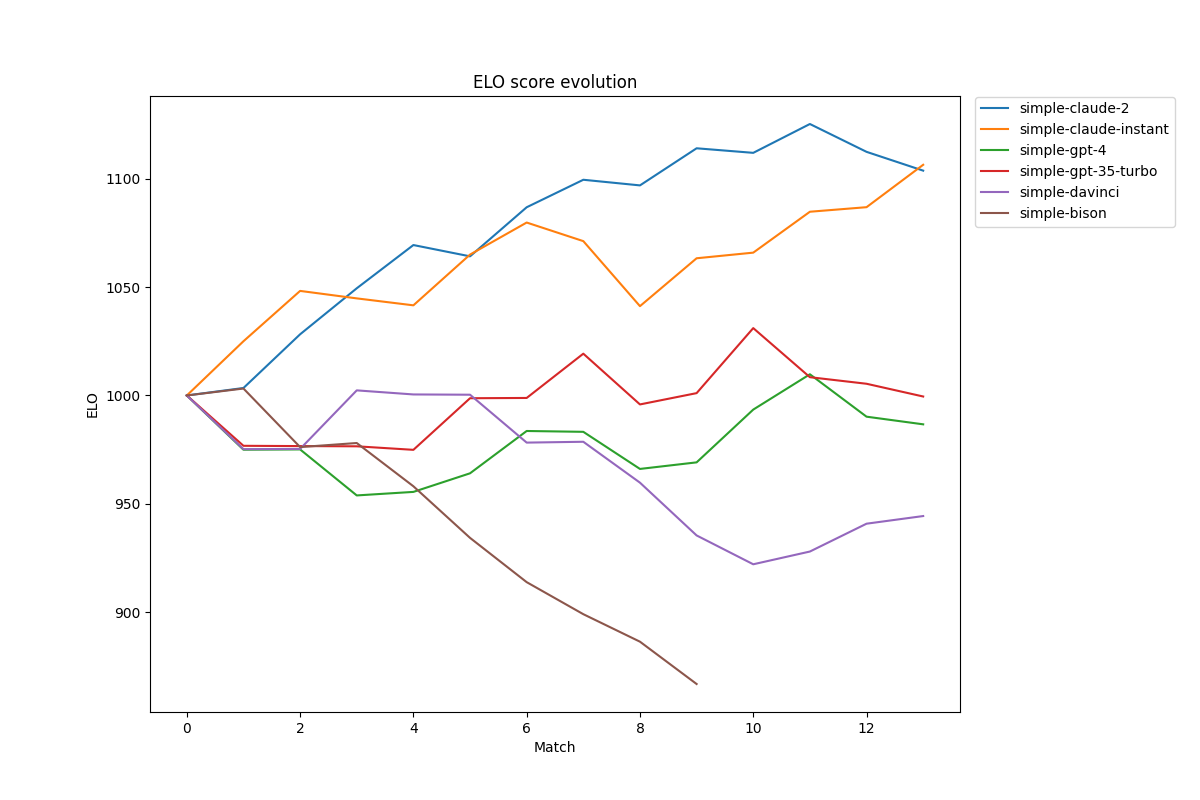
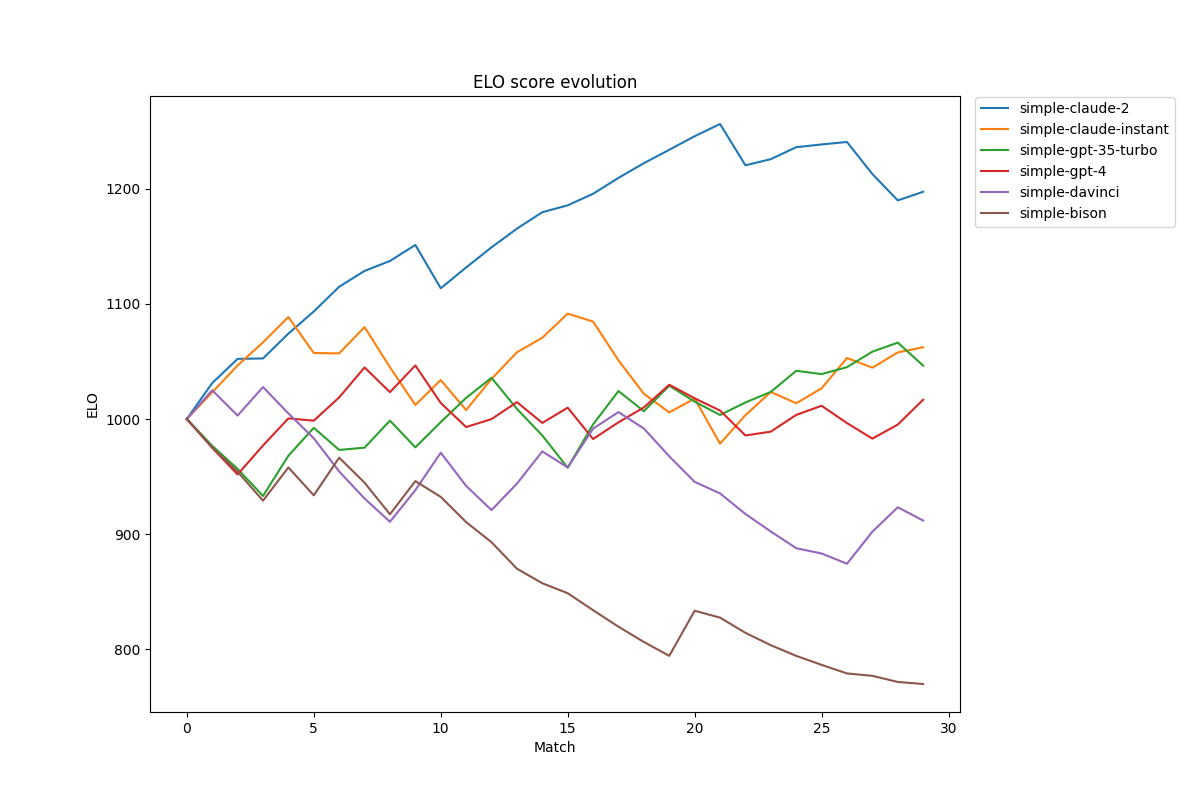
Change to full/symmetric matches; add player sets within tournaments

diff --git a/src/match.py b/src/match.py
@@ -11,7 +11,6 @@ from leaderboard import update_leaderboard
 def _get_match_id(challenge_name, player_A_name, player_B_name):
     """Generate a unique ID for a match"""
 
-    player_A_name, player_B_name = sorted([player_A_name, player_B_name])
     return challenge_name + ":" + player_A_name + "<>" + player_B_name
 
 
@@ -34,7 +33,7 @@ def _find_match(tournament_state):
     for challenge_name in _randomize(tournament_state["challenges"].keys()):
         for player_A_name in _randomize(tournament_state["players"].keys()):
             for player_B_name in _randomize(tournament_state["players"].keys()):
-                if player_A_name < player_B_name:
+                if player_A_name != player_B_name:
                     if (
                         _get_match_id(challenge_name, player_A_name, player_B_name)
                         not in tournament_state["matches"]
@@ -45,7 +44,7 @@ def _find_match(tournament_state):
 
 
 ##############################################
-def _do_evaluate(
+def _evaluate(
     tournament_state, challenge, player_A_name, output_A, player_B_name, output_B
 ):
     """Perform the evaluation of a match"""
@@ -82,46 +81,33 @@ def _do_evaluate(
 
 
 ##############################################
-def _evaluate(
-    tournament_state, challenge, player_A_name, output_A, player_B_name, output_B
-):
-    """Evaluate a match, running symmetrical evaluations for fairness"""
+def _perform(tournament_state, challenge_name, player):
+    """Perform a performance for a player"""
 
-    print("    evaluating match results")
-
-    if len(output_A) == 0 or len(output_B) == 0:
-        return "Either player failed to produce output", "DNP"
-
-    # avoid lexical bias, so we run two evaluations with the players swapped
-    args = [
-        (tournament_state, challenge, player_A_name, output_A, player_B_name, output_B),
-        (tournament_state, challenge, player_B_name, output_B, player_A_name, output_A),
-    ]
-    evaluations = [(None, None), (None, None)]
-    with concurrent.futures.ThreadPoolExecutor(max_workers=2) as executor:
-        future_to_ix = {
-            executor.submit(_do_evaluate, *arg): ix for ix, arg in enumerate(args)
+    performance_file = f"competitions/{tournament_state['meta']['competition']}/performances/{_get_performance_id(challenge_name, player['name'])}.json"
+    if not os.path.exists(performance_file):
+        # create the performance
+        print(f"      rendering performance of {player['name']} for {challenge_name}")
+        challenge = tournament_state["challenges"][challenge_name]
+        performance = {
+            "player": player["name"],
+            "challenge": challenge_name,
+            "output": complete(
+                player["model"],
+                player["temperature"],
+                player["prompt"].format(**challenge),
+            ),
         }
-        for future in concurrent.futures.as_completed(future_to_ix):
-            evaluations[future_to_ix[future]] = future.result()
 
-    assessment_1, winner_1 = evaluations[0]
-    assessment_2, winner_2 = evaluations[1]
-
-    # one draw is enough to call it a draw
-    if winner_1 == "DRAW":
-        return winner_1, assessment_1
-    elif winner_2 == "DRAW":
-        return winner_2, assessment_2
-    # check for inconclusive non-draw assessments
-    elif winner_1 != winner_2:
-        return (
-            "DRAW",
-            f"Inconclusive assessments: {assessment_1} <--VS--> {assessment_2.replace('Player A', 'Player X').replace('Player B', 'Player A').replace('Player X', 'Player B')}",
-        )
+        # store the performance
+        with open(performance_file, "w") as file:
+            json.dump(performance, file, indent=2)
     else:
-        # unanimous winner
-        return assessment_1, winner_1
+        # load the performance
+        with open(performance_file, "r") as file:
+            performance = json.load(file)
+
+    return performance
 
 
 ##############################################
@@ -145,29 +131,9 @@ def run_match(tournament_state):
         # perform performances if needed
         performances = {}
         for player in (player_A, player_B):
-            performance_file = f"competitions/{tournament_state['meta']['competition']}/performances/{_get_performance_id(challenge_name, player['name'])}.json"
-            if not os.path.exists(performance_file):
-                # create the performance
-                print(
-                    f"      rendering performance of {player['name']} for {challenge_name}"
-                )
-                performances[player["name"]] = {
-                    "player": player["name"],
-                    "challenge": challenge,
-                    "output": complete(
-                        player["model"],
-                        player["temperature"],
-                        player["prompt"].format(**challenge),
-                    ),
-                }
-
-                # store the performance
-                with open(performance_file, "w") as file:
-                    json.dump(performances[player["name"]], file, indent=2)
-            else:
-                # load the performance
-                with open(performance_file, "r") as file:
-                    performances[player["name"]] = json.load(file)
+            performances[player["name"]] = _perform(
+                tournament_state, challenge_name, player
+            )
 
         # perform the evaluation
         player_A_output = performances[player_A_name]["output"]

diff --git a/src/tournament.py b/src/tournament.py
@@ -6,10 +6,12 @@ from leaderboard import generate_leaderboard
 
 
 ##############################################
-def load_tournament(competition, tournament):
+def load_tournament(competition, tournament, player_set=""):
     """Load the competition into a structure representing its state"""
 
-    print(f"Loading tournament {tournament.upper()} of competition {competition.upper()}")
+    print(
+        f"Loading tournament {tournament.upper()} of competition {competition.upper()}"
+    )
 
     tournament_state = dict(
         meta={"competition": competition, "tournament": tournament},
@@ -25,7 +27,37 @@ def load_tournament(competition, tournament):
         exit(-1)
 
     # load the players
+
+    # obtain the valid player globs
+    player_globs = ["*"]
+    if player_set != "":
+        if not os.path.exists(
+            f"competitions/{competition}/tournaments/{tournament}/{player_set}.players"
+        ):
+            print(f"Player set {player_set} does not exist")
+            exit(-1)
+
+        print(f"    loading player set {player_set}")
+        with open(
+            f"competitions/{competition}/tournaments/{tournament}/{player_set}.players",
+            "r",
+        ) as f:
+            # read player globs from all non-empty lines
+            player_globs = [
+                line.strip() for line in f.readlines() if line.strip() != ""
+            ]
+
+    # load players
     for player_filename in glob.glob(f"competitions/{competition}/players/*.yaml"):
+        # is the player filename matching any of the player set globs?
+        if not any(
+            [
+                glob.fnmatch.fnmatch(player_filename.split("/")[-1], player_glob)
+                for player_glob in player_globs
+            ]
+        ):
+            continue
+
         with open(player_filename, "r") as file:
             player_name = player_filename.split("/")[-1].split(".")[0]
             tournament_state["players"][player_name] = yaml.safe_load(file)
@@ -71,7 +103,17 @@ def load_tournament(competition, tournament):
         with open(match_filename, "r") as file:
             match_time = os.path.getmtime(match_filename)
             match_name = match_filename.split("/")[-1].split(".")[0]
-            tournament_state["matches"][match_name] = json.load(file)
+            match = json.load(file)
+
+            # skip if either player is not in the active set
+            if (
+                match["player_A"]["name"] not in tournament_state["players"]
+                or match["player_B"]["name"] not in tournament_state["players"]
+            ):
+                continue
+
+            # ok, use this match
+            tournament_state["matches"][match_name] = match
 
             # if this match is older than challenge or players or eval, discard it
             player_A_time = tournament_state["players"][
@@ -102,6 +144,10 @@ def load_tournament(competition, tournament):
         player_name = performance_name.split(":")[1]
         challenge_name = performance_name.split(":")[0]
 
+        # skip players not in this set
+        if player_name not in tournament_state["players"]:
+            continue
+
         player_time = tournament_state["players"][player_name]["updated"]
         challenge_time = tournament_state["challenges"][challenge_name]["updated"]
 
@@ -116,9 +162,10 @@ def load_tournament(competition, tournament):
     # calc number of matches
     tournament_state["meta"]["pairings"] = int(
         (len(tournament_state["players"]) * (len(tournament_state["players"]) - 1))
-        / 2
         * len(tournament_state["challenges"])
     )
-    print(f"    {len(tournament_state['matches'])} of {tournament_state['meta']['pairings']} matches played")
+    print(
+        f"    {len(tournament_state['matches'])} of {tournament_state['meta']['pairings']} matches played"
+    )
 
     return tournament_state

diff --git a/src/promptrank.py b/src/promptrank.py
@@ -7,10 +7,10 @@ from tournament import load_tournament
 from analyze import analyze_players, plot_elo_history
 
 
-def play(competition, tournament, number_matches):
+def play(competition, tournament, players, number_matches):
     """Play a number of matches."""
 
-    tournament_state = load_tournament(competition, tournament)
+    tournament_state = load_tournament(competition, tournament, players)
 
     for _i in range(number_matches):
         print(f"\nPlaying match {_i + 1}/{number_matches}")
@@ -21,12 +21,12 @@ def play(competition, tournament, number_matches):
     )
 
 
-def analyze(competition, tournament, write_file):
+def analyze(competition, tournament, players, write_file):
     """Analyze player performance."""
 
-    tournament_state = load_tournament(competition, tournament)
-    print(f"\nAnalyzing {len(tournament_state['players'])} players")
+    tournament_state = load_tournament(competition, tournament, players)
 
+    print(f"\nAnalyzing {len(tournament_state['players'])} players")
     dump, _analysis = analyze_players(tournament_state)
 
     if write_file:
@@ -44,6 +44,7 @@ def main():
     parser = argparse.ArgumentParser(description="Promptrank Command-Line Interface")
     parser.add_argument("competition", type=str, help="Name of the competition.")
     parser.add_argument("tournament", type=str, help="Name of the tournament.")
+    parser.add_argument("players", type=str, help="Name of the player set file (optional).", nargs="?", default="")
 
     subparsers = parser.add_subparsers(dest="command")
 
@@ -67,9 +68,9 @@ def main():
     args = parser.parse_args()
 
     if args.command == "play":
-        play(args.competition, args.tournament, args.number)
+        play(args.competition, args.tournament, args.players, args.number)
     elif args.command == "analyze":
-        analyze(args.competition, args.tournament, args.write_file)
+        analyze(args.competition, args.tournament, args.players, args.write_file)
     else:
         print("Invalid command. Use -h for help.")
 

diff --git a/competitions/example/tournaments/accuracy/analysis.md b/competitions/example/tournaments/accuracy/analysis.md
@@ -1,16 +1,16 @@
 
 # EXAMPLE competition
 ## ACCURACY tournament
-6 players, 3 challenges, 45 out of 45 matches played
+6 players, 3 challenges, 90 out of 90 matches played
 
 | Player | ELO | Score | Analysis |
 |---|---|---|---|
-**simple-claude-2**|1121|8-6-0|Simple-claude-2 consistently excels in creating comprehensive, detailed, and precise summaries that capture all key points from the original text without adding any additional information or interpretation.<br><br>Weaknesses:<br>- The assessments do not indicate any weaknesses in simple-claude-2's performance, as all the feedback is positive and the remaining matches were draws, suggesting that simple-claude-2's performance was on par with the opponents'.<br>- There is no mention of simple-claude-2's ability to summarize texts of varying complexity, length, or subject matter, which could potentially be a limitation.<br>- The assessments do not provide any insight into simple-claude-2's speed in generating summaries, which could be a potential area for improvement in a competitive setting.|
-**simple-claude-instant**|1070|7-5-2|Simple-claude-instant's key strength is their ability to provide detailed and comprehensive summaries that include all key points and facts from the original text.<br><br>Weaknesses:<br>- While the player's summaries are detailed, they may sometimes lack conciseness and precision, which can make them longer and potentially harder to digest than necessary.<br>- The player may occasionally omit important details, such as the potential for further rate increases and the views of policymakers, which can affect the accuracy and completeness of the summary.<br>- The player's focus on detail may sometimes lead to overemphasis on certain points, potentially causing an imbalance in the representation of the original text's content.|
-**simple-gpt-4**|995|3-7-4|Simple-gpt-4's key strength is its ability to provide accurate summaries that often include specific data and comprehensive details from the original text.<br><br>Weaknesses:<br>- Simple-gpt-4 occasionally omits important details from the original text, such as potential future events or the views of key individuals, which can reduce the completeness of its summaries.<br>- Compared to its opponents, simple-gpt-4's summaries are sometimes less detailed, missing out on some facts from the original text.<br>- There is a recurring issue of simple-gpt-4's summaries lacking in precision and detail, which suggests a need for improvement in capturing more key points from the original text.|
-**simple-gpt-35-turbo**|981|3-7-4|The player simple-gpt-35-turbo demonstrates a strength in creating concise, precise summaries that often include important additional details such as sources and public expectations.<br><br>Weaknesses of the player include:<br>- The player occasionally omits important details from the original text, such as specific actions of major supermarkets, potential interest rate rises, and comments from policymakers.<br>- While the player's summaries are often concise, this sometimes comes at the expense of comprehensiveness, with the opponent's summaries frequently including more facts from the original text.<br>- The player's performance is inconsistent, with several draws indicating that while the player can produce accurate summaries, they do not consistently outperform their opponents.|
-**simple-davinci**|980|2-7-5|Simple-davinci's key strength lies in its ability to provide concise, precise, and accurate summaries without adding any additional information or interpretation.<br><br>Weaknesses:<br>- Simple-davinci often omits important details from the original text, such as specific data points or key aspects, which can lead to a less comprehensive summary.<br>- While the player's summaries are concise, they sometimes lack the necessary detail and precision, resulting in a summary that does not fully capture all the key points from the original text.<br>- Simple-davinci's performance is inconsistent, with some summaries being more comprehensive and detailed than others, indicating a potential issue with the player's ability to consistently identify and include all relevant information from the original text.|
-**simple-bison**|850|0-2-8|Simple-bison's key strength is their ability to provide accurate and concise summaries without adding any additional information or interpretation.<br><br>Weaknesses:<br>- Lack of comprehensiveness: Simple-bison often omits important details from the original text, such as the impact of the cost-of-living crisis on partnerships, the role of AI, and the most admired partnerships.<br>- Incomplete coverage of key points: Simple-bison's summaries often lack key points from the original text, such as the retailers' responses to the crisis, the research by BritainThinks, and consumers' expectations from retailers.<br>- Insufficient inclusion of source and context: Simple-bison's summaries often fail to include important contextual information such as the source of the research and the public's expectations of retailers' responses to the crisis.|
+**simple-claude-2**|1205|25-1-4|Simple-claude-2 consistently excels in providing detailed, comprehensive, and accurate summaries that capture more facts and key points from the original text than the opponents.<br><br>Weaknesses:<br>- While simple-claude-2's summaries are detailed and comprehensive, they are often less concise than the opponents', potentially making them less accessible and digestible for some readers.<br>- There are instances where simple-claude-2's summaries, despite being more detailed, miss out on some specific details or data points that the opponents' summaries include, indicating a potential area for improvement in thoroughness.<br>- In a few cases, simple-claude-2's summaries are less precise than the opponents', suggesting that the player may sometimes struggle to distill the most important information in a clear and succinct manner.|
+**simple-claude-instant**|1056|17-3-10|Simple-claude-instant's key strength lies in their ability to provide detailed, comprehensive, and accurate summaries that often capture more nuances and key points from the original text than their opponents.<br><br>Weaknesses:<br>- Simple-claude-instant occasionally includes interpretation and commentary in their summaries, which can detract from the strict fidelity to the original text that is required in this tournament.<br>- There are instances where simple-claude-instant omits important details from the original text, such as specific data points or key events, which can affect the faithfulness and precision of their summaries.<br>- While their summaries are often more detailed and comprehensive, they can sometimes be less concise than their opponents', potentially including unnecessary details and failing to capture the key points in a succinct manner.|
+**simple-gpt-35-turbo**|1038|15-2-13|The key strength of the player simple-gpt-35-turbo is its ability to provide concise, precise, and accurate summaries that effectively capture the key points of the original text.<br><br>Weaknesses of the player simple-gpt-35-turbo include:<br>- Although the summaries are generally accurate, they occasionally lack detail and omit important points or facts from the original text, which can result in a less comprehensive summary.<br>- The player sometimes fails to include specific details or statistics from the original text, which can reduce the precision and comprehensiveness of the summary.<br>- There are instances where the player does not capture all the nuances of the original text, such as specific perspectives or additional facts, which can limit the depth and richness of the summary.|
+**simple-gpt-4**|1009|14-3-13|Simple-gpt-4's key strength is its ability to provide accurate, faithful, and precise summaries without adding any additional information or interpretation.<br><br>Weaknesses:<br>- simple-gpt-4 often omits important details and key points from the original text, resulting in less comprehensive summaries compared to its opponents.<br>- The player sometimes fails to include specific statistics and facts from the original text, which can limit the depth and understanding of the summary.<br>- simple-gpt-4's summaries can lack detail and comprehensiveness, often missing out on nuances and subtleties present in the original text.|
+**simple-davinci**|917|10-1-19|The key strength of the player simple-davinci is their ability to provide accurate, concise, and faithful summaries of the original text without adding unnecessary interpretation or commentary.<br><br>Weaknesses of the player simple-davinci include:<br><br>- Lack of detail and specificity: In many assessments, simple-davinci's summaries were criticized for lacking the level of detail and specificity that the opponent's summaries had. This includes missing out on key statistics, specific points, and nuances from the original text.<br>- Inconsistency in comprehensiveness: While in some instances simple-davinci's summaries were praised for being comprehensive, in others they were noted to be less comprehensive than the opponent's, indicating a lack of consistency in capturing all key points from the original text.<br>- Addition of extraneous information: In a few assessments, simple-davinci was noted to have included information in their summaries that was not fully covered in the original text, indicating a tendency to add unnecessary or extraneous information.|
+**simple-bison**|765|4-0-26|The key strength of the player simple-bison is their ability to provide concise, accurate, and faithful summaries that strictly adhere to the original text without adding any additional information or interpretation.<br><br>Weaknesses of the player simple-bison include:<br>- Lack of comprehensiveness: simple-bison often omits important details, key points, and specific statistics from the original text, resulting in summaries that, while accurate, are less detailed and comprehensive than those of their opponents.<br>- Inconsistency in participation: simple-bison sometimes does not provide any summary at all, which significantly undermines their performance in the tournament.<br>- Failure to capture the full scope of the original text: simple-bison's summaries, while concise and accurate, often fail to capture the full scope of the original text, including the actions of major retailers, the impact of the cost-of-living crisis on partnerships, the role of AI, and the most admired partnerships.|
 
 
 ### ELO score development
